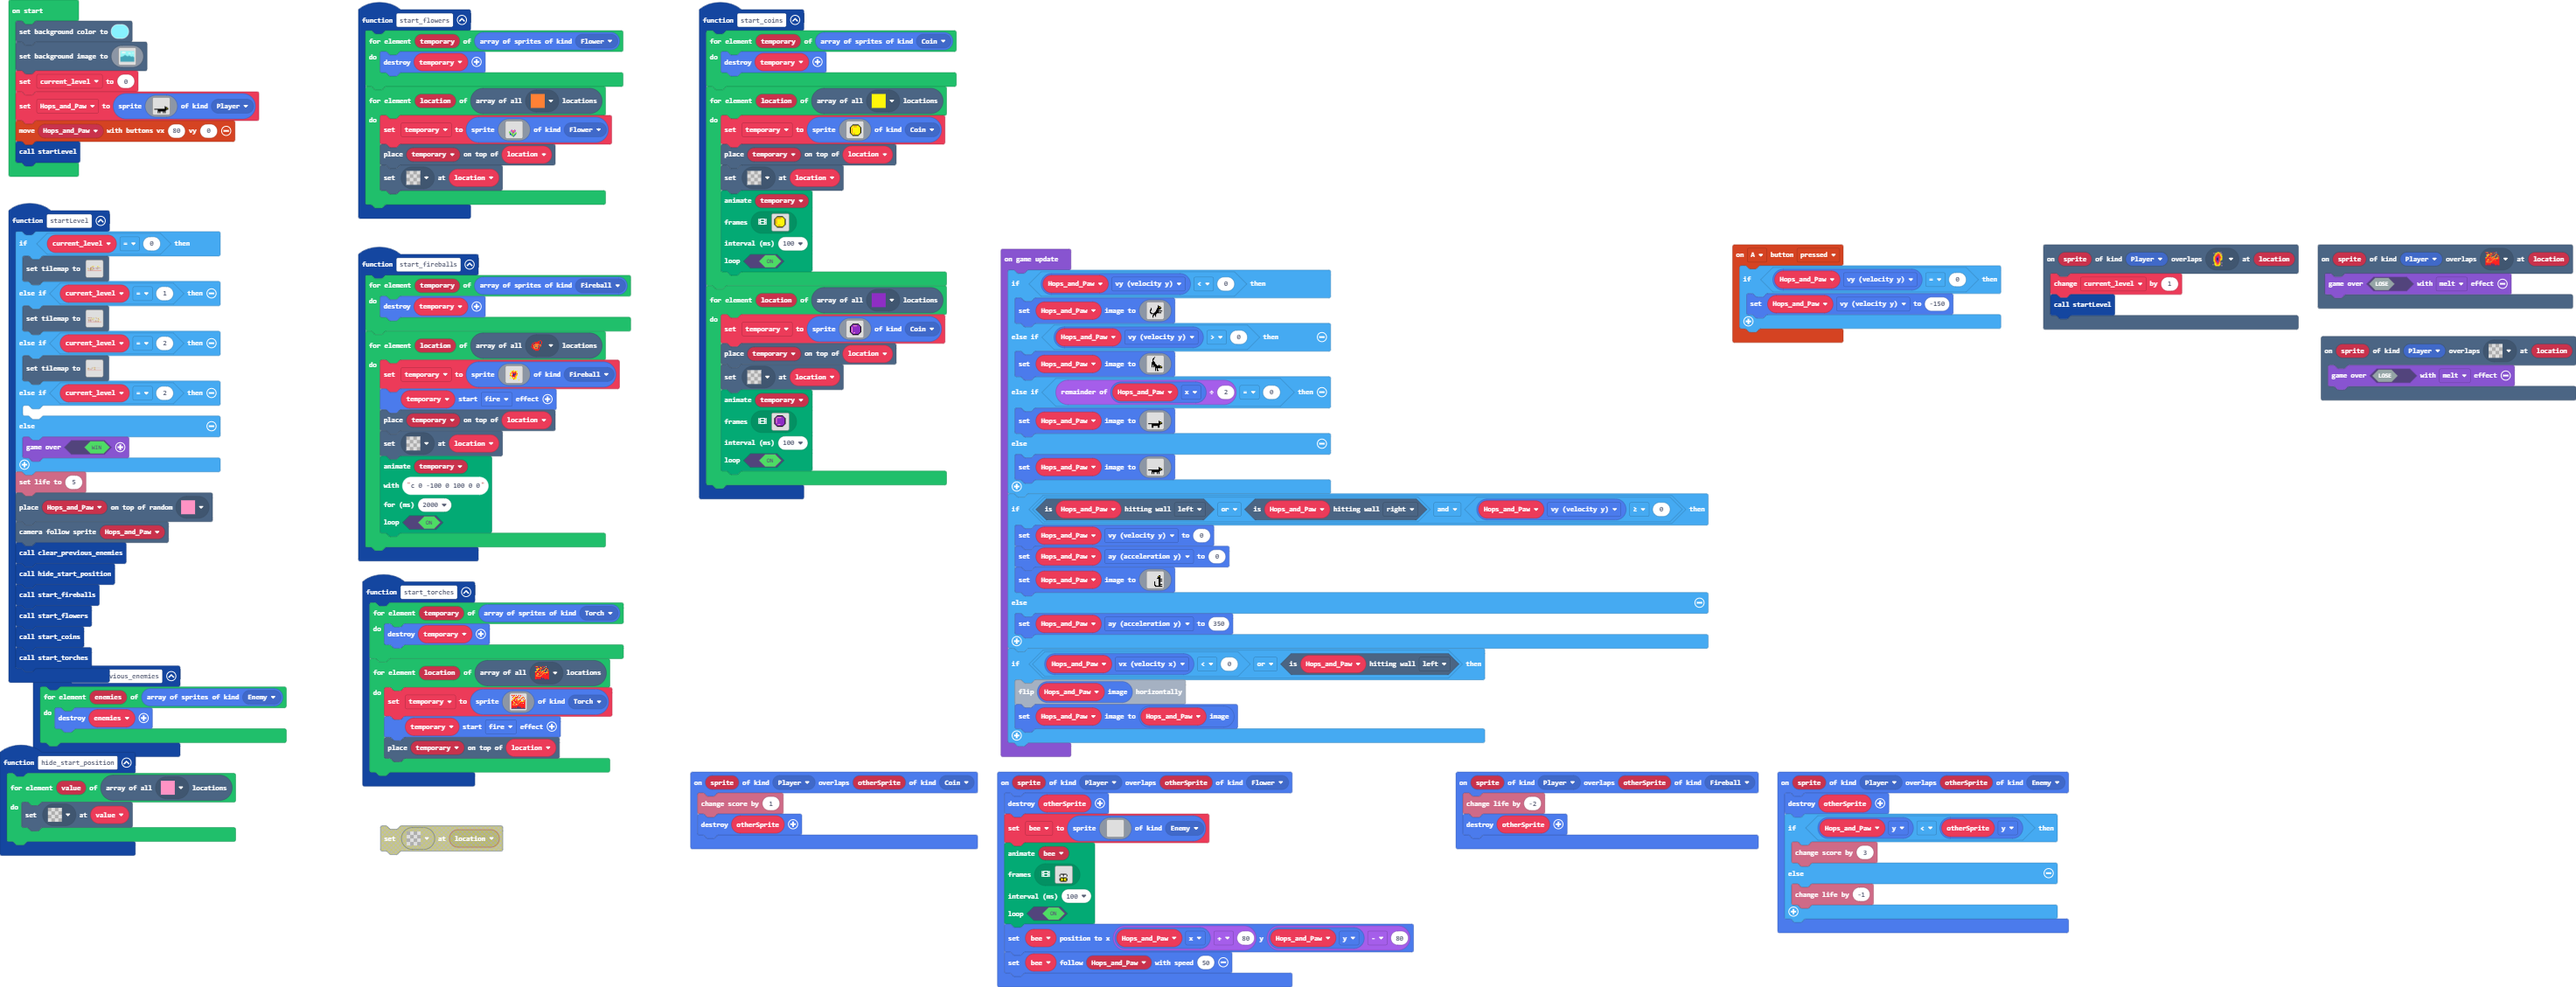
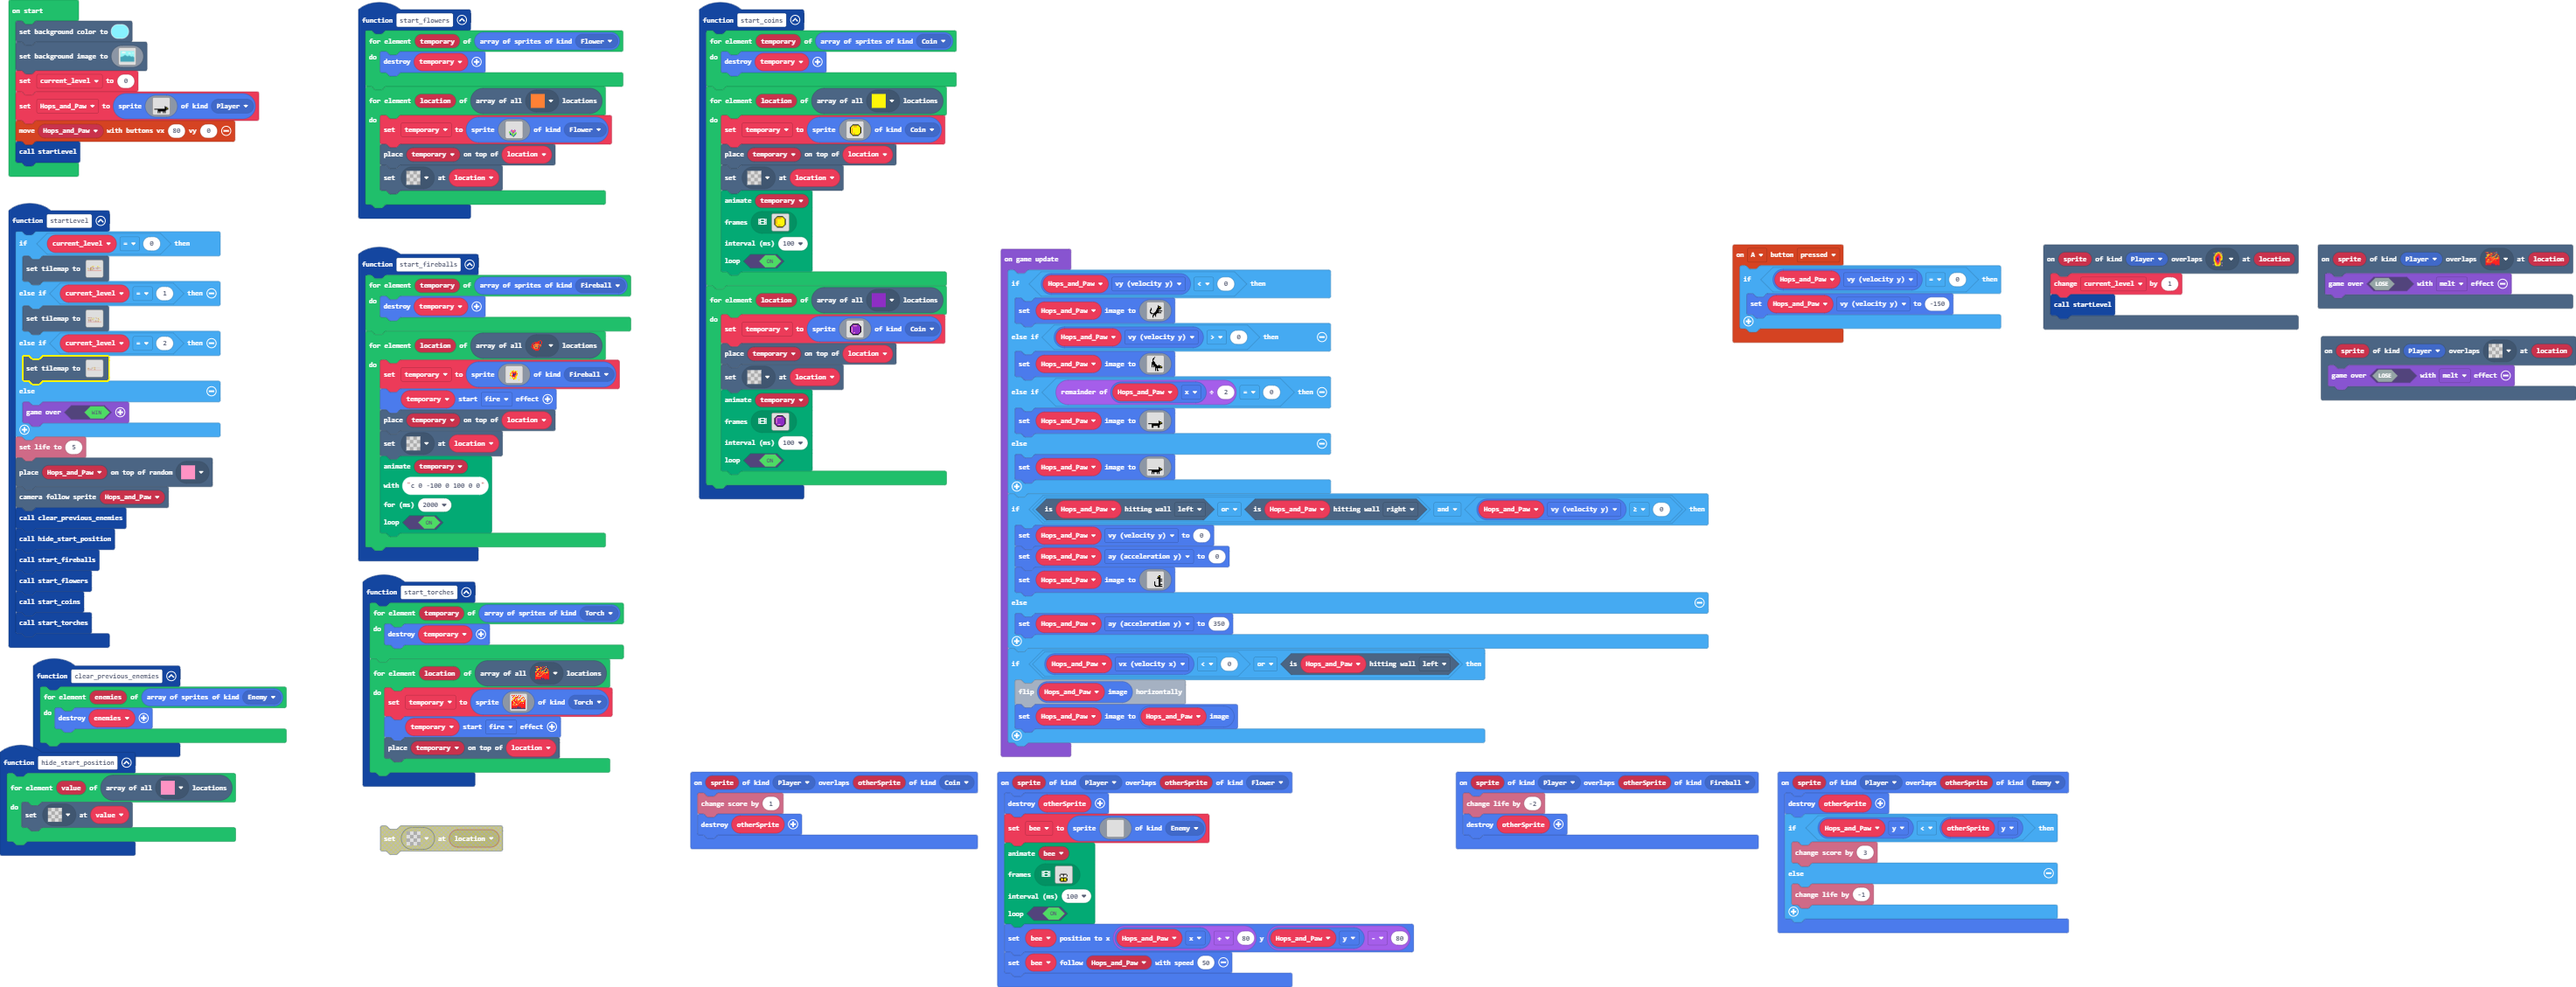
Update main.blocks, main.ts, tilemap.g.jres, tilemap.g.ts

Changed region(s): [[0.0, 0.372, 0.0937, 0.713], [0.1561, 0.682, 0.2186, 0.713]]

diff --git a/tilemap.g.ts b/tilemap.g.ts
@@ -54,6 +54,10 @@ namespace myTiles {
     export const tile24 = image.ofBuffer(hex``);
     //% fixedInstance jres blockIdentity=images._tile
     export const tile25 = image.ofBuffer(hex``);
+    //% fixedInstance jres blockIdentity=images._tile
+    export const tile28 = image.ofBuffer(hex``);
+    //% fixedInstance jres blockIdentity=images._tile
+    export const tile29 = image.ofBuffer(hex``);
 
     helpers._registerFactory("tilemap", function(name: string) {
         switch(helpers.stringTrim(name)) {
@@ -104,34 +108,6 @@ namespace myTiles {
 .......................................2..........
 ..................................................
 `, [myTiles.tile0,myTiles.tile1,myTiles.tile2,myTiles.tile3,myTiles.tile4,myTiles.tile5,myTiles.tile6,myTiles.tile9,myTiles.tile10,myTiles.tile11,myTiles.tile8,myTiles.tile12,myTiles.tile13,myTiles.tile16,myTiles.tile18,myTiles.tile21,myTiles.tile15,myTiles.tile14,myTiles.tile24,myTiles.tile25], TileScale.Sixteen);
-            case "level_1":
[1 lines of base64/hex data omitted]
-....................................................................................................
-....................................................................................................
-....................................................................................................
-....................................................................................................
-....................................................................................................
-....................................................................................................
-....................................................................................................
-................................2...2....2..........................................................
-.............................2......................................................................
-...........................................2....22222222...2...2...2....2.....2....2....2...........
-.....................................2..2..2........................................................
-..............................22.2.............2....................................................
-...............................................2....................................................
-.2222..22222....................22.............2....................................................
-22222..222222..................................2....................................................
-2...........2..................2.2.............2....................................................
-2..............2................2..............2....................................................
-2...................2222..2222.................2....................................................
-2...........2.......2222..2222.................2....................................................
-2...........2...................................22222222............................................
-2...........2...................................22222222............................................
-2...........2.......................................................................................
-2...........2.......................................................................................
-2...2.......2.......................................................................................
-2...22222...2.......................................................................................
-`, [myTiles.tile0,myTiles.tile3,myTiles.tile1,myTiles.tile2,myTiles.tile4,myTiles.tile5,myTiles.tile6,myTiles.tile7,myTiles.tile9,myTiles.tile10,myTiles.tile11,myTiles.tile8,myTiles.tile12,myTiles.tile13,myTiles.tile14,myTiles.tile16,myTiles.tile17,myTiles.tile18,myTiles.tile19,myTiles.tile15,myTiles.transparency16,myTiles.tile21,myTiles.tile23,myTiles.tile25], TileScale.Sixteen);
             case "level 1":
[1 lines of base64/hex data omitted]
 ..................................................
@@ -189,6 +165,67 @@ namespace myTiles {
 . . . . . . . . . . . . . . . . 
 . . . . . . . . . . . . . . . . 
 `, [myTiles.transparency16], TileScale.Sixteen);
+            case "level4":
[1 lines of base64/hex data omitted]
+..............................
+..............................
+..............................
+..............................
+..............................
+..............................
+..............................
+..............................
+..............................
+..............................
+..............................
+..............................
+..............................
+..............................
+..............................
+..............................
+..............................
+..............................
+..............................
+..............................
+..............................
+..............................
+..............................
+..............................
+..............................
+..............................
+..............................
+..............................
+..............................
+..............................
+`, [myTiles.transparency16,myTiles.tile4,myTiles.tile6,myTiles.tile7,myTiles.tile11,myTiles.tile8,myTiles.tile13,myTiles.tile28,myTiles.tile29], TileScale.Sixteen);
+            case "level_1":
[1 lines of base64/hex data omitted]
+....................................................................................................
+....................................................................................................
+....................................................................................................
+....................................................................................................
+....................................................................................................
+....................................................................................................
+..................................................222...............................................
+................................2...2....2..........................................................
+.............................2......................................................................
+...........................................2....22222222...2...2...2....2.....2....2....2...........
+.....................................2..2..2........................................................
+..............................22.2.............2....................................................
+...............................................2....................................................
+.2222..22222....................22.............2....................................................
+22222..222222..................................2....................................................
+2...........2..................2.2.............2....................................................
+2..............2................2..............2....................................................
+2...................2222..2222.................2....................................................
+2...........2.......2222..2222.................2....................................................
+2...........2...................................22222222............................................
+2...........2...................................22222222............................................
+2...........2.......................................................................................
+2...........2.......................................................................................
+2...2.......2.......................................................................................
+2...22222...2.......................................................................................
+`, [myTiles.tile0,myTiles.tile3,myTiles.tile1,myTiles.tile2,myTiles.tile4,myTiles.tile5,myTiles.tile6,myTiles.tile7,myTiles.tile9,myTiles.tile10,myTiles.tile11,myTiles.tile8,myTiles.tile12,myTiles.tile13,myTiles.tile14,myTiles.tile16,myTiles.tile17,myTiles.tile18,myTiles.tile19,myTiles.tile15,myTiles.transparency16,myTiles.tile21,myTiles.tile23,myTiles.tile25], TileScale.Sixteen);
         }
         return null;
     })
@@ -238,6 +275,9 @@ namespace myTiles {
             case "tile24":return tile24;
             case "myTile13":
             case "tile25":return tile25;
+            case "myTile15":
+            case "tile28":return tile28;
+            case "tile29":return tile29;
         }
         return null;
     })

diff --git a/main.ts b/main.ts
@@ -562,8 +562,6 @@ function startLevel () {
         tiles.setTilemap(tilemap`level_0`)
     } else if (current_level == 2) {
         tiles.setTilemap(tilemap`level_1`)
-    } else if (current_level == 2) {
-    	
     } else {
         game.over(true)
     }
